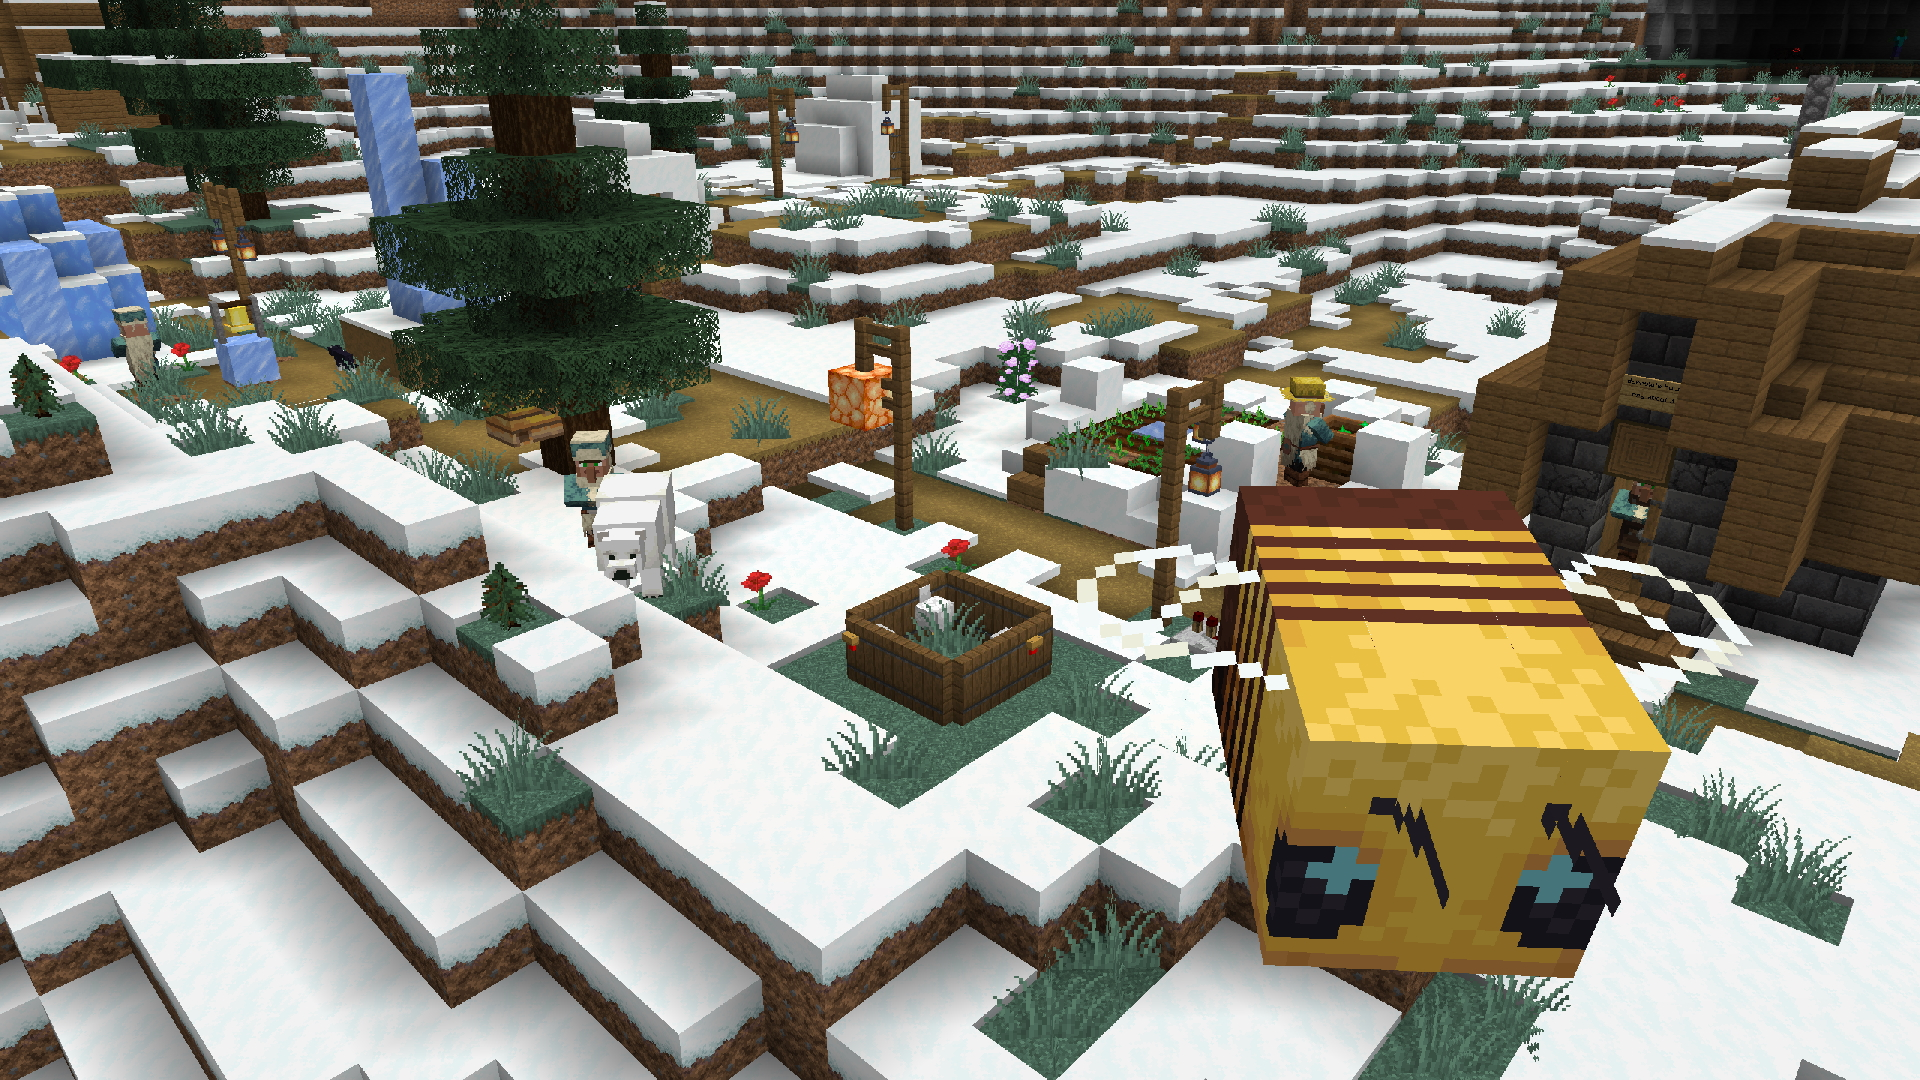
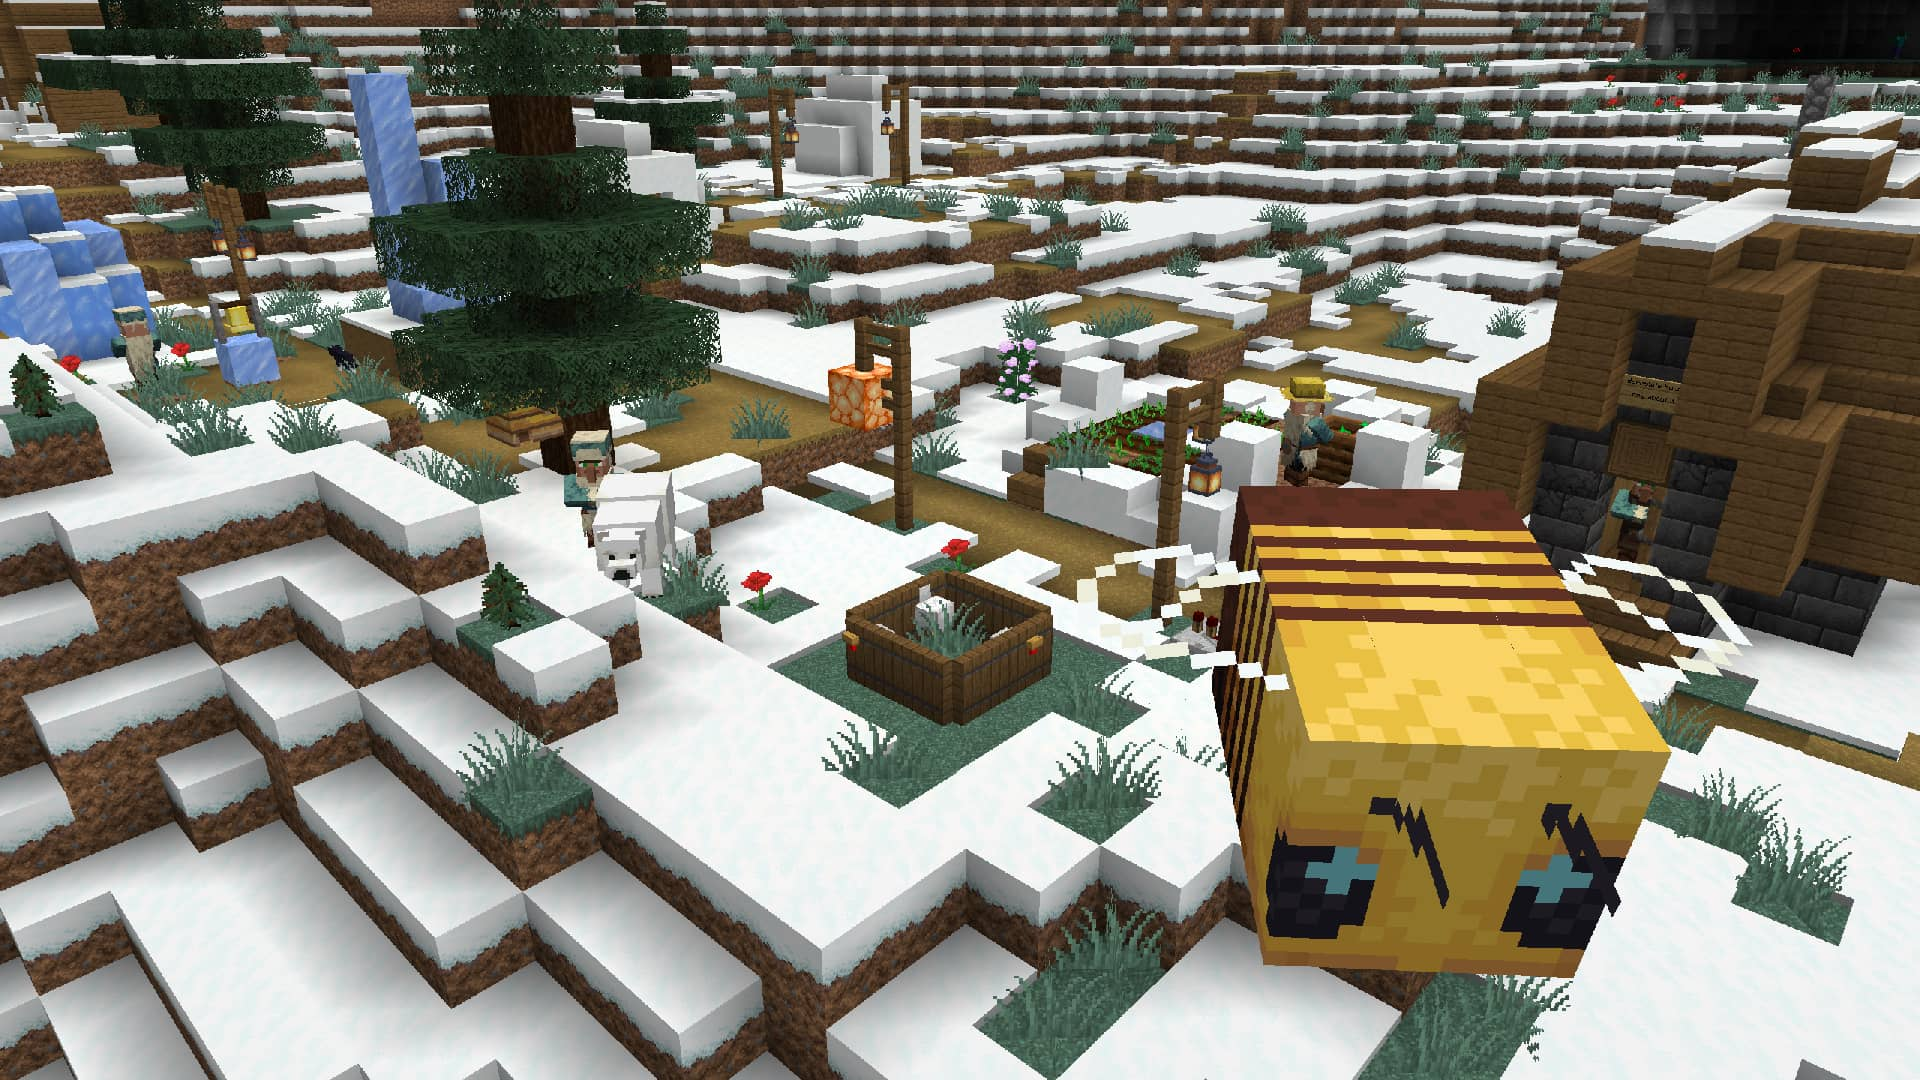
publish 32x beta 13 article

diff --git a/changelogs/compliance32.html b/changelogs/compliance32.html
@@ -1109,6 +1109,80 @@ changelog:
     - Removed:
       - Various:
         - All textures that are no longer compliant with our guidelines. Please see our Announcement Regarding Placeholder Textures for more information.
+  - Beta 13:
+    - Added:
+      - Blocks:
+        - Shroomlight (Alexsor)
+        - Observer Top (HARAG0N)
+        - Bone Block Top (Alexsor)
+        - Spruce Trapdoor (RalphOfficial)
+        - Cracked Deepslate Bricks (Purple Cha0s)
+        - Tripwire Hook (DMgaming)
+        - Spruce Sapling (Alexsor)
+        - Jungle Sapling (Alexsor)
+        - Repeater (DMgaming)
+        - Comparator (DMgaming)
+      - Items:
+        - Prismarine Crystals (Alexsor)
+        - Spruce Sign (RalphOfficial)
+        - Dark Oak Sign (RalphOfficial)
+        - Jungle Sign (RalphOfficial)
+      - Entities:
+        - Polar Bear (Alexsor)
+        - Chicken (Alexsor)
+        - Evoker Fangs (Alexsor)
+      - Bedrock UI:
+        - Invite Base (DMgaming)
+        - Left Split Panel (DMgaming)
+        - Right Split Panel
+        - Apple Share (DMgaming)
+        - Toggle Off (DMgaming)
+        - Toggle On (DMgaming)
+        - Sale Slot (DMgaming)
+        - Big Realm Banner (DMgaming)
+        - Gamepad D-Pad Icon (DMgaming)
+        - Send Icon (DMgaming)
+        - Download Backup (DMgaming)
+    - Changed:
+      - Blocks:
+        - Andesite (Aerod)
+        - Fire (Cituation)
+        - Soul Fire (Cituation)
+        - Peony (Aerod)
+        - Sand (Aerod)
+        - Red Sand (Aerod)
+        - Bone Block Side (Alexsor)
+        - Spore Blossom Base (EachMenderKhai)
+        - Lilac (Aerod, Fred Figglehorn)
+        - Sandstone Top (Aerod)
+        - Red Sandstone Top (Aerod)
+        - Acacia Sapling (Alexsor)
+      - Items:
+        - Prismarine Shard (Alexsor)
+        - Phantom Membrane (Alexsor)
+        - Crimson Sign (DMgaming)
+        - Beetroot (Alexsor)
+        - Pigstep Music Disc (DMgaming)
+        - Eye of Ender (DMgaming)
+        - Netherite Chestplate (DMgaming)
+      - Entities:
+        - Bees (Pomi108)
+        - Pig (DMgaming)
+        - Pig Saddle (Cituation)
+        - Strider Saddle (Cituation)
+        - Steve (Aerod)
+      - GUI:
+        - Spectator Widgets (Aerod)
+      - Bedrock UI:
+        - Friend2 (Aerod)
+    - Fixed:
+      - Font:
+        - Cloud emoticons in Java font
+      - Entities:
+        - (Bedrock) Saddled pig texture inconsistency
+    - Removed:
+      - Blocks:
+        - Sandstone CTM
 ---
 
 {%- include changelog.html -%}

diff --git a/_posts/2021-08-13-C32_B13.md b/_posts/2021-08-13-C32_B13.md
@@ -1,0 +1,20 @@
+---
+layout: post
+title: Compliance 32x Beta 13
+permalink: /compliance32x/B13
+comments: true
+comments-id: 1.17.1-32x-Beta-13
+header-img: compliance32x/releases/B13.jpg
+
+long_text: Summer's in full force, and days are getting hot again! At least where I live, and don't even get me started about Australia. But you know what's also hot? The awesome new textures our contributors have been working so hard on! In this update we're mainly re-introducing improved versions of textures removed in the previous beta, but also bringing a lot of new stuff to the table! Check it all out in detail with the changelog below&#58;
+
+main_changelog: changelogs/compliance32
+
+downloads:
+  - 1.17.1 for Java Edition:
+      GitHub: https://github.com/Compliance-Resource-Pack/Compliance-Java-32x/releases/download/beta-13/Compliance-32x-Java-Beta-13.zip
+      CurseForge: https://www.curseforge.com/minecraft/texture-packs/compliance-32x/download/3424291
+  - 1.17.11 for Bedrock Edition:
+      GitHub: https://github.com/Compliance-Resource-Pack/Compliance-Bedrock-32x/releases/download/beta-13/Compliance-32x-Bedrock-Beta-13.mcpack
+      CurseForge: https://www.curseforge.com/minecraft/bedrock-resrouce-packs/compliance-32x-bedrock/download/3424292
+---
